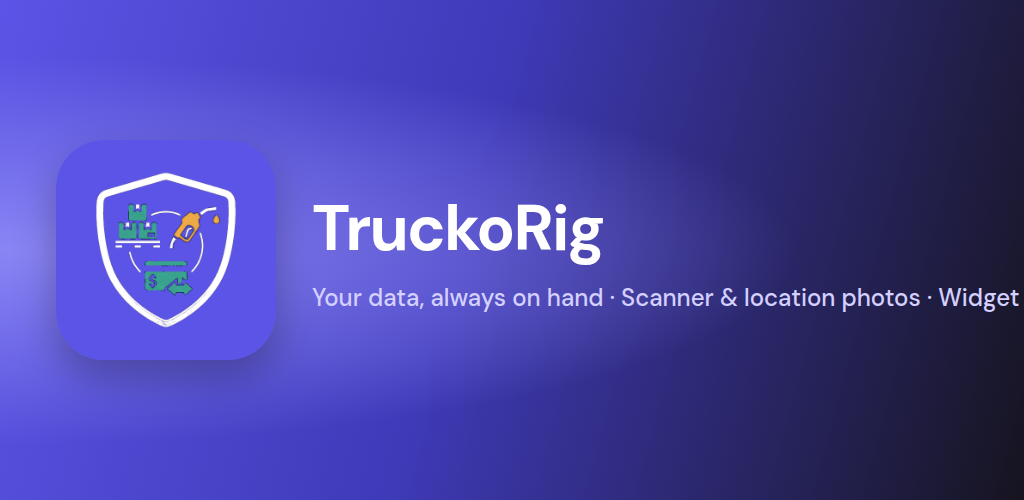
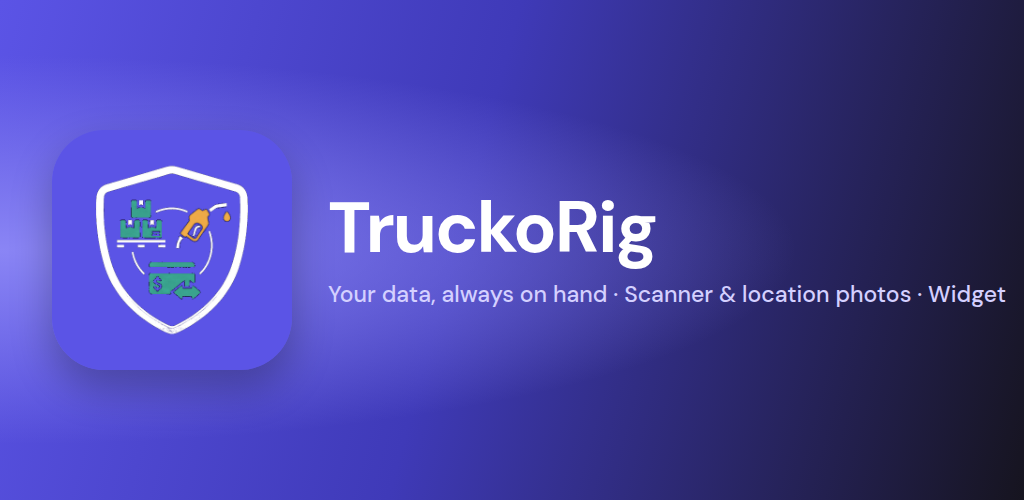
Enlarge Play feature graphic source for Media Library crop
Keep official 1024×500 upload assets with balanced SoftUI layout, and
add 2048×1000 EN/RU sources so Play Console crop no longer rejects
the banner as too small.

diff --git a/truckerload/store/google-play/templates/screenshots.html b/truckerload/store/google-play/templates/screenshots.html
@@ -556,26 +556,29 @@
       height: 100%;
       display: flex;
       align-items: center;
-      padding: 48px 56px;
+      padding: 44px 52px;
       gap: 36px;
       color: #fff;
+      box-sizing: border-box;
+      overflow: hidden;
     }
     .feature-inner img {
-      width: 220px;
-      height: 220px;
-      border-radius: 48px;
+      width: 240px;
+      height: 240px;
+      border-radius: 52px;
       box-shadow: 0 18px 40px rgba(0,0,0,0.28);
       flex-shrink: 0;
     }
     .feature-inner h1 {
       margin: 0;
-      font-size: 64px;
+      font-size: 72px;
       font-weight: 700;
       letter-spacing: -0.03em;
+      line-height: 1.05;
     }
     .feature-inner p {
-      margin: 12px 0 0;
-      font-size: 24px;
+      margin: 14px 0 0;
+      font-size: 23px;
       font-weight: 500;
       color: var(--soft);
       max-width: 640px;
